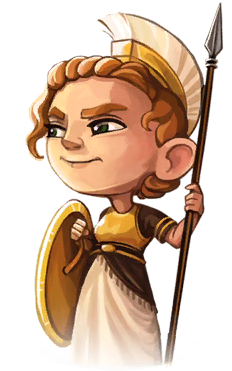
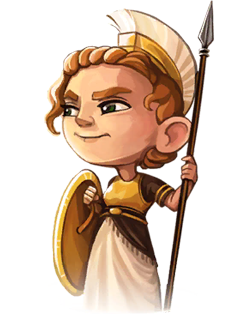
implement serverLog in gameScene and refactor of some images

diff --git a/src/main/resources/css/gameScene.css b/src/main/resources/css/gameScene.css
@@ -88,6 +88,11 @@
     -fx-stroke-width: 1;
 }
 
+.log{
+    -fx-stroke: black  ;
+    -fx-stroke-width: 0.2;
+}
+
 .playerHero{
     -fx-background-color: transparent;
     -fx-background-repeat: no-repeat;
@@ -103,4 +108,66 @@
 .playerHero:hover{
     -fx-cursor: hand;
     -fx-effect: dropshadow(three-pass-box, black, 10, 0, 0, 0);
+}
+
+
+.serverLogPane {
+    -fx-background-image: url("/images/backgrounds/serverLog3.png");
+    -fx-background-repeat: no-repeat;
+    -fx-background-position: center;
+    -fx-background-size: 100% 100%;
+    -fx-alignment: top-center;
+    -fx-text-fill: white;
+}
+
+.serverLog {
+    -fx-background-color: transparent;
+
+}
+
+.serverLog .scroll-pane {
+    -fx-background-color: transparent;
+}
+
+
+.serverLog .scroll-pane .viewport{
+    -fx-background-color: transparent;
+}
+
+
+.serverLog .scroll-pane .content{
+    -fx-background-color: transparent;
+
+}
+
+.scroll-bar:vertical .track{
+    -fx-background-color : rgba(210,198,185,0.5);
+    -fx-border-color :transparent;
+    -fx-background-radius : 0.0em;
+    -fx-border-radius :2.0em;
+}
+
+.scroll-bar:vertical .thumb{
+    -fx-background-color: #9e9486;
+}
+
+
+.scroll-bar:vertical .increment-button ,
+.scroll-bar:vertical .decrement-button {
+    -fx-background-color :transparent;
+    -fx-background-radius : 0.0em;
+    -fx-padding :0.0 10.0 0.0 0.0;
+
+}
+
+.scroll-bar .increment-arrow,
+.scroll-bar .decrement-arrow{
+    -fx-shape : " ";
+    -fx-padding :0.15em 0.0;
+}
+
+.scroll-bar:vertical .increment-arrow,
+.scroll-bar:vertical .decrement-arrow{
+    -fx-shape : " ";
+    -fx-padding :0.0 0.15em;
 }

diff --git a/src/main/resources/css/secondScene.css b/src/main/resources/css/secondScene.css
@@ -91,4 +91,7 @@
     -fx-background-color: #3f3f3f;
     -fx-opacity: 60%;
 }
-
+.waitingText{
+    -fx-stroke: black  ;
+    -fx-stroke-width: 2;
+}

diff --git a/src/main/java/it/polimi/ingsw/PSP11/view/gui/controller/SelectGodsController.java b/src/main/java/it/polimi/ingsw/PSP11/view/gui/controller/SelectGodsController.java
@@ -2,6 +2,8 @@ package it.polimi.ingsw.PSP11.view.gui.controller;
 
 import it.polimi.ingsw.PSP11.messages.*;
 import it.polimi.ingsw.PSP11.model.Card;
+import javafx.animation.KeyFrame;
+import javafx.animation.Timeline;
 import javafx.application.Platform;
 import javafx.event.ActionEvent;
 import javafx.fxml.FXML;
@@ -18,8 +20,10 @@ import javafx.scene.input.MouseEvent;
 import javafx.scene.layout.Pane;
 import javafx.scene.layout.StackPane;
 import javafx.scene.layout.VBox;
+import javafx.scene.text.Font;
 import javafx.scene.text.Text;
 import javafx.stage.Stage;
+import javafx.util.Duration;
 
 import java.net.ConnectException;
 import java.util.ArrayList;
@@ -58,8 +62,7 @@ public class SelectGodsController extends GUIController {
     public void initialize(){
 
 
-        waitPane.setVisible(true);
-        selectPane.setVisible(false);
+        waitScene();
 
         leftStack.getStyleClass().add("stack-pane");
         centerStack.getStyleClass().add("stack-pane");
@@ -70,6 +73,7 @@ public class SelectGodsController extends GUIController {
 
         sendGameGods.getStyleClass().add("doneButton");
         sendPlayerGod.getStyleClass().add("doneButton");
+        waitingText.setFont(Font.loadFont(getClass().getResource("/font/LillyBelle400.ttf").toString(),40));
 
         player1.setWrapText(true);
         player2.setWrapText(true);
@@ -257,7 +261,6 @@ public class SelectGodsController extends GUIController {
 
     private void selectGameGodScene() {
         waitPane.setVisible(false);
-        waitingText.setVisible(false);
         selectPane.setVisible(true);
 
         sendGameGods.setVisible(true);
@@ -283,6 +286,22 @@ public class SelectGodsController extends GUIController {
     private void waitScene(){
         waitPane.setVisible(true);
         selectPane.setVisible(false);
+
+        Platform.runLater(() ->{
+            Timeline timeline = new Timeline(
+                    new KeyFrame(Duration.ZERO, event -> {
+                        String text = waitingText.getText();
+                        waitingText.setText(
+                                ("GOD SELECTION IN PROCESS, PLEASE WAIT . . .".equals(text))
+                                        ? "GOD SELECTION IN PROCESS, PLEASE WAIT ."
+                                        : text + " ."
+                        );
+                    }),
+                    new KeyFrame(Duration.millis(500))
+            );
+            timeline.setCycleCount(Timeline.INDEFINITE);
+            timeline.play();
+        });
     }
 
 
@@ -323,6 +342,9 @@ public class SelectGodsController extends GUIController {
         }
         else if(message instanceof StartGameMessage){
             changeStage();
+        }
+        else if(message instanceof OpponentCardMessage){
+
         }
         else if(message instanceof ConnectionClosedMessage){
             //TODO popup for closure (on popup close also close the application)

diff --git a/src/main/java/it/polimi/ingsw/PSP11/view/gui/controller/GameSceneController.java b/src/main/java/it/polimi/ingsw/PSP11/view/gui/controller/GameSceneController.java
@@ -29,7 +29,7 @@ public class GameSceneController extends GUIController {
 
 
     @FXML
-    private Pane initPane,actionPane,imagePane,heroPowerPane,descriptionPane;
+    private Pane initPane,actionPane,imagePane,heroPowerPane,descriptionPane,serverLogPane;
 
     @FXML
     private TextArea serverLog;
@@ -44,7 +44,7 @@ public class GameSceneController extends GUIController {
     private ImageView cardView;
 
     @FXML
-    private Text requestText,turnText,cardDescription;
+    private Text requestText,turnText,cardDescription,log;
 
     @FXML
     private Button yesButton,noButton;
@@ -63,7 +63,9 @@ public class GameSceneController extends GUIController {
         requestText.setFont(Font.loadFont(getClass().getResource("/font/LillyBelle400.ttf").toString(),40));
         turnText.setFont(Font.loadFont(getClass().getResource("/font/LillyBelle400.ttf").toString(),47));
         cardDescription.setFont(Font.loadFont(getClass().getResource("/font/LillyBelle400.ttf").toString(),33));
+        log.setFont(Font.loadFont(getClass().getResource("/font/LillyBelle400.ttf").toString(),18));
         cardView.setImage(new Image(getClass().getResource(getPlayerCard().getTexture()).toString()));
+
         cardDescription.setText(getPlayerCard().getDescription().toUpperCase());
         playerHero.setStyle("-fx-background-image: url(" + getClass().getResource("/images/gods/podium/podium-"+getPlayerCard().getName()+".png").toString() + ");");
 
@@ -245,7 +247,7 @@ public class GameSceneController extends GUIController {
 
         Platform.runLater(()->{
             setAllInvisible(actionGrid);
-            turnText.setText("BUILD YOUR WORKER!");
+            turnText.setText("BUILD!");
             for(Point position : possibleBuilds){
                 Button button = (Button )actionGrid.getChildren().get(position.x * 5 + position.y);
                 button.getStyleClass().clear();

diff --git a/src/main/java/it/polimi/ingsw/PSP11/model/Game.java b/src/main/java/it/polimi/ingsw/PSP11/model/Game.java
@@ -99,7 +99,7 @@ public class Game extends Observable<UpdateMessage> {
      */
 
     public Card selectPlayerGod (int indexOfChosenGod){
-        notify(new UpdateMessage(null,getCurrentPlayer().playerClone(),new SimpleMessage("\n\n"+getCurrentPlayer().getColor().getEscape() + getCurrentPlayer().getNickname() + Color.RESET + " has chosen " + chosenCards.get(indexOfChosenGod).getName() + "\n")));
+        notify(new UpdateMessage(null,getCurrentPlayer().playerClone(),new OpponentCardMessage("\n\n"+getCurrentPlayer().getColor().getEscape() + getCurrentPlayer().getNickname() + Color.RESET + " has chosen " + chosenCards.get(indexOfChosenGod).getName() + "\n",chosenCards.get(indexOfChosenGod).cardClone(),getCurrentPlayer().getNickname())));
         return chosenCards.get(indexOfChosenGod);
     }
 

diff --git a/src/main/java/it/polimi/ingsw/PSP11/view/gui/controller/GUIController.java b/src/main/java/it/polimi/ingsw/PSP11/view/gui/controller/GUIController.java
@@ -14,6 +14,7 @@ public abstract class GUIController {
     private static Color color;
     private static ArrayList<PlayerInfo> opponents = new ArrayList<>();
     private static Card playerCard;
+    private static ArrayList<Card> opponentCards = new ArrayList<>();
 
     public abstract void changeStage();
     public abstract void handleMessage(Message message);
@@ -57,6 +58,10 @@ public abstract class GUIController {
 
     public static Card getPlayerCard() {
         return playerCard;
+    }
+
+    public static ArrayList<Card> getOpponentCards() {
+        return opponentCards;
     }
 
     public static void setPlayerCard(Card playerCard) {

diff --git a/src/main/java/it/polimi/ingsw/PSP11/messages/OpponentCardMessage.java b/src/main/java/it/polimi/ingsw/PSP11/messages/OpponentCardMessage.java
@@ -1,0 +1,22 @@
+package it.polimi.ingsw.PSP11.messages;
+
+import it.polimi.ingsw.PSP11.model.Card;
+
+public class OpponentCardMessage extends SimpleMessage {
+
+    private Card opponentCard;
+    private String opponent;
+
+    public OpponentCardMessage(String theMessage ,Card card , String opponent) {
+        super(theMessage);
+        this.opponentCard = card;
+    }
+
+    public Card getOpponentCard() {
+        return opponentCard;
+    }
+
+    public String getOpponent() {
+        return opponent;
+    }
+}
